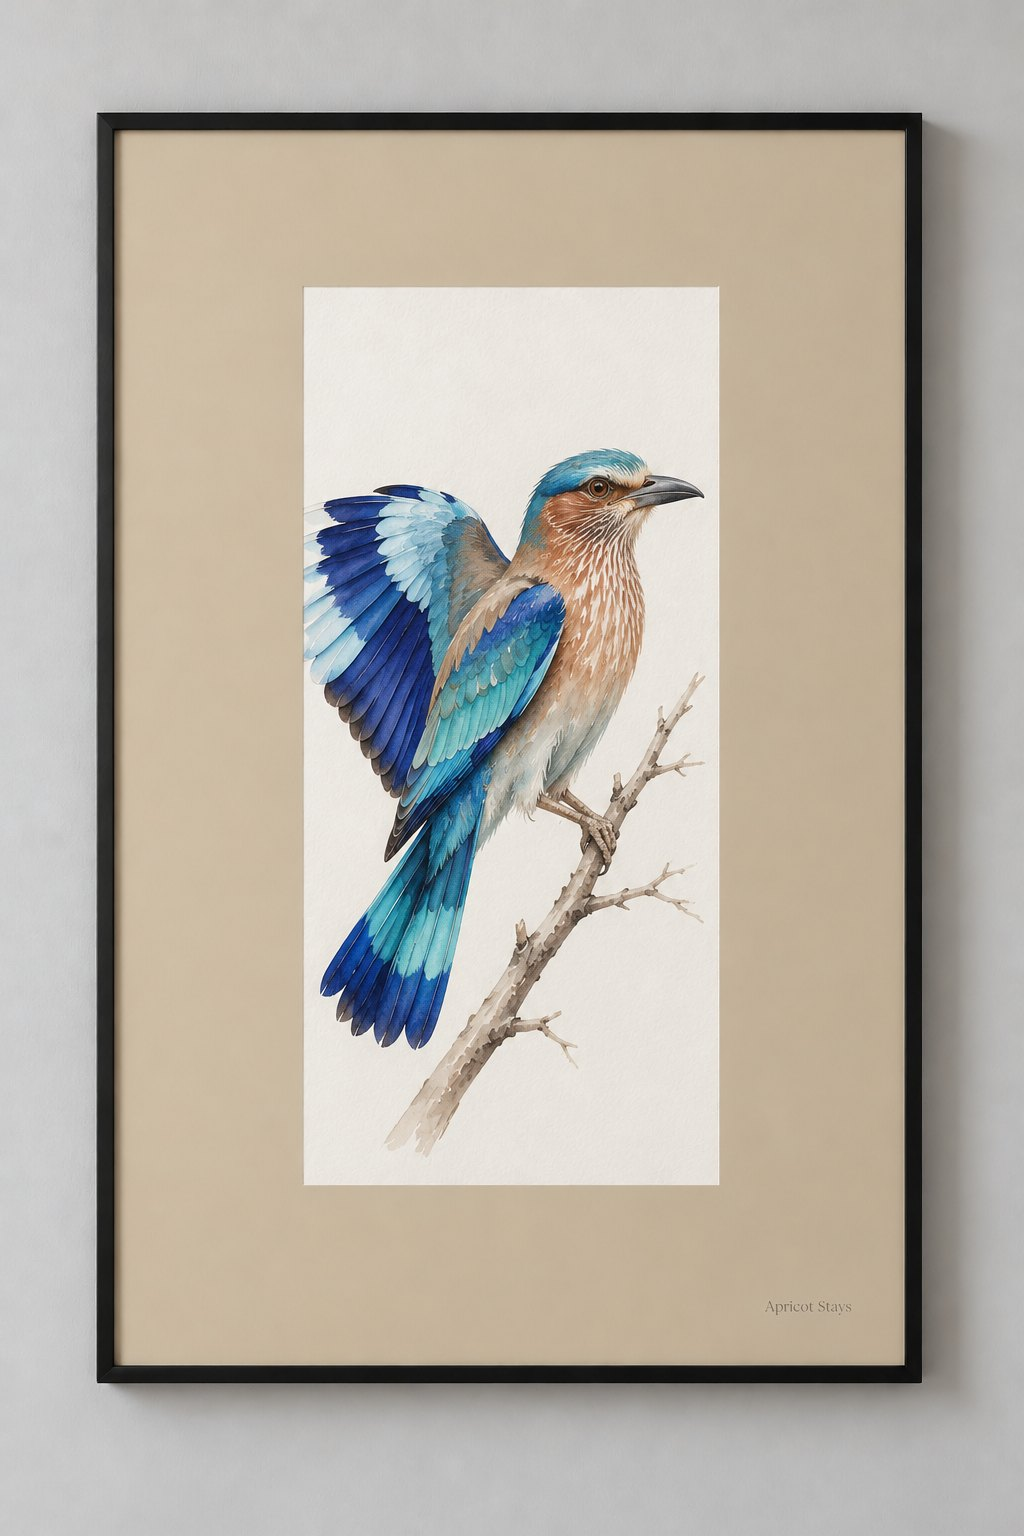
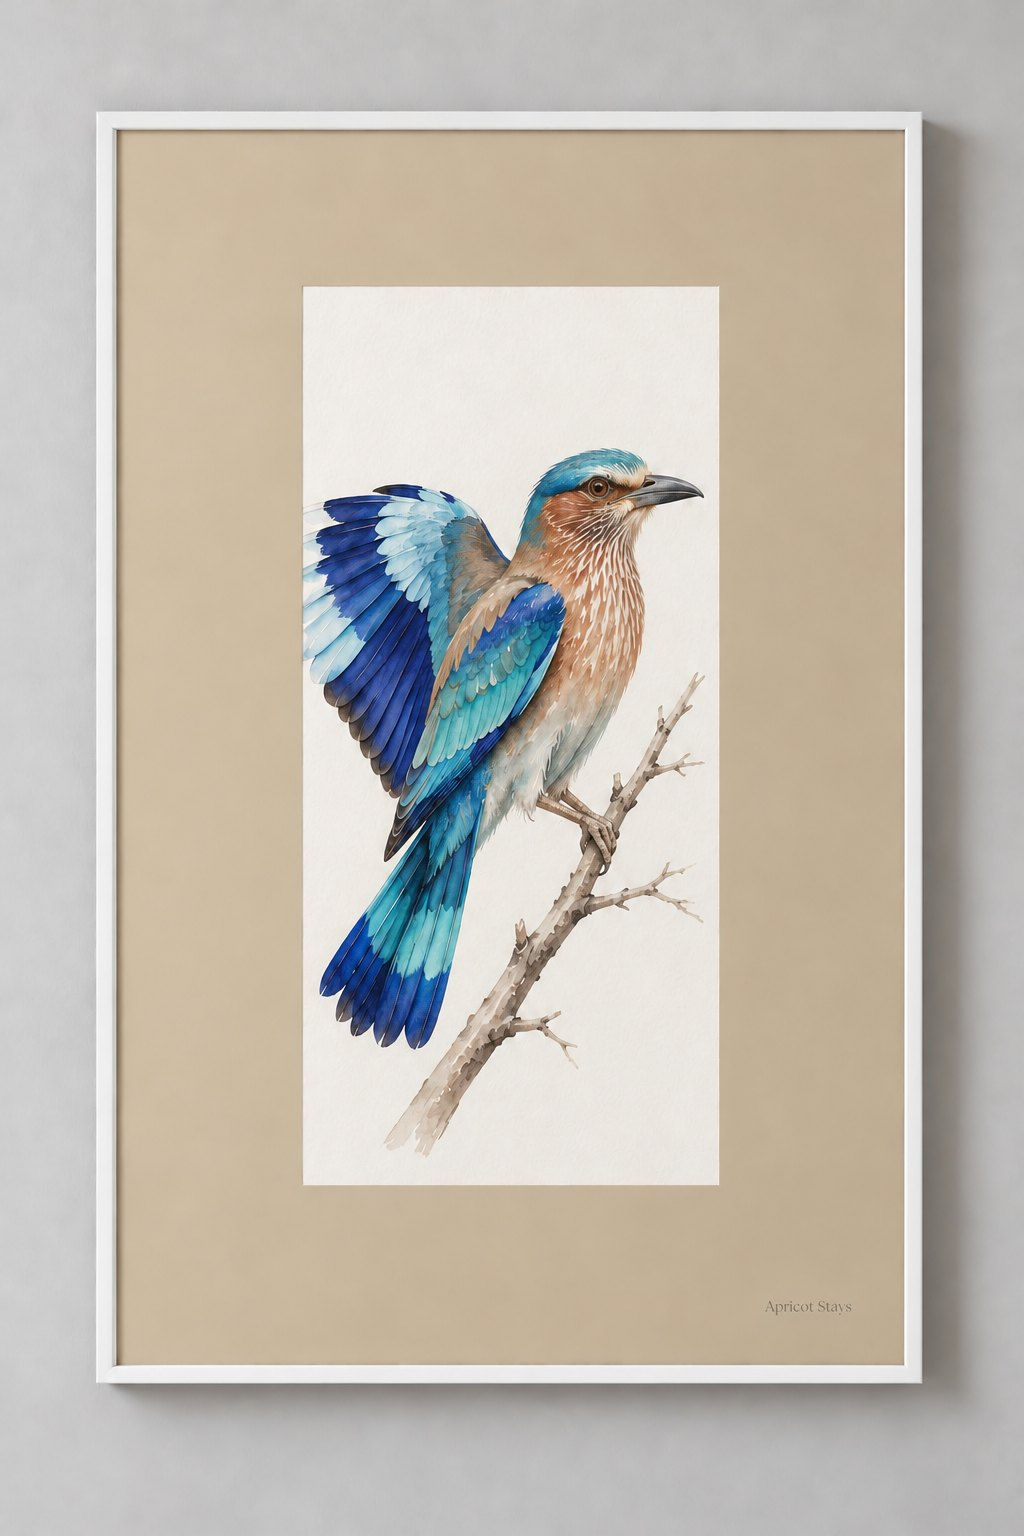
Garden Shop: show Birds of the Garden posters in white frames
Claude-Session: https://claude.ai/code/session_012izSGD6TWpyqeMbUAWmTWu

diff --git a/apps/web/src/data/shop.ts b/apps/web/src/data/shop.ts
@@ -110,7 +110,7 @@ const bird = (
   title,
   note,
   description,
-  alt: `Framed A4 poster: watercolour of a ${title.toLowerCase()} ${scene}, on a ${mat} border, in a black frame`,
+  alt: `Framed A4 poster: watercolour of a ${title.toLowerCase()} ${scene}, on a ${mat} border, in a white frame`,
   image,
 });
 
@@ -233,10 +233,10 @@ const unsorted: ShopCollection[] = [
     unit: "framed poster",
     // CK, 19 Oct 2026; Qikink A4 framed ≈ ₹410 incl. shipping + GST.
     price: 999,
-    specs: "A4 poster on 300 gsm art paper, in a black frame, with a hanging kit",
+    specs: "A4 poster on 300 gsm art paper, in a white frame, with a hanging kit",
     details: [
       { label: "Size", value: "A4 poster (21 × 29.7 cm)" },
-      { label: "Frame", value: "Black, about 1 inch, with a hanging kit" },
+      { label: "Frame", value: "White, about 1 inch, with a hanging kit" },
       { label: "Paper", value: "300 gsm art paper; the coloured border is printed" },
       { label: "Delivery", value: DELIVERY },
     ],

diff --git a/CHANGELOG.md b/CHANGELOG.md
@@ -4,6 +4,10 @@ All notable changes to apricotstays.in. Format: [Keep a Changelog](https://keepa
 
 ## [Unreleased]
 
+### Changed
+
+- **Garden Shop: Birds of the Garden posters now shown in white frames.** All ten poster images replaced with CK's white-frame versions (same birds, borders and numbering); "black frame" → "white frame" in the collection specs, product details and image descriptions. (CK, 19 Oct 2026.)
+
 ### Added
 
 - **Garden Shop v1: shelves, collection pages and product pages; "Birds of the Garden" framed posters.** `/shop` now opens with a button per collection (name, product type, "from" price) and one sideways-scrolling shelf per collection, in the order set by `position` — Birds of the Garden first (marked New), then Words of the Garden (the tumblers). Each shelf has "See all" leading to a collection page (`/shop/birds-of-the-garden`, `/shop/words-of-the-garden`: full grid, price and specs, an Order button on every card, and a link to the other collection). Every design has its own product page (`/shop/<collection>/<item>`, e.g. `/shop/birds-of-the-garden/indian-grey-hornbill`): large image, price, a short description, "Order on WhatsApp", details (size, frame or material, delivery), "More from …" and "Pairs well with". New collection: ten A4 framed watercolour posters of Chandigarh garden birds, ₹999 each (the Indian grey hornbill — Chandigarh's state bird — through to a coppersmith barbet on apricot blossom). The tumbler collection is now named "Words of the Garden". Still soft launch: noindex, not in the sitemap, footer link only. Data: `src/data/shop.ts` (`collections`); shared parts in `src/components/shop/`. Product descriptions drafted by Claude for CK's review. Mockups approved by CK 19 Oct 2026.
